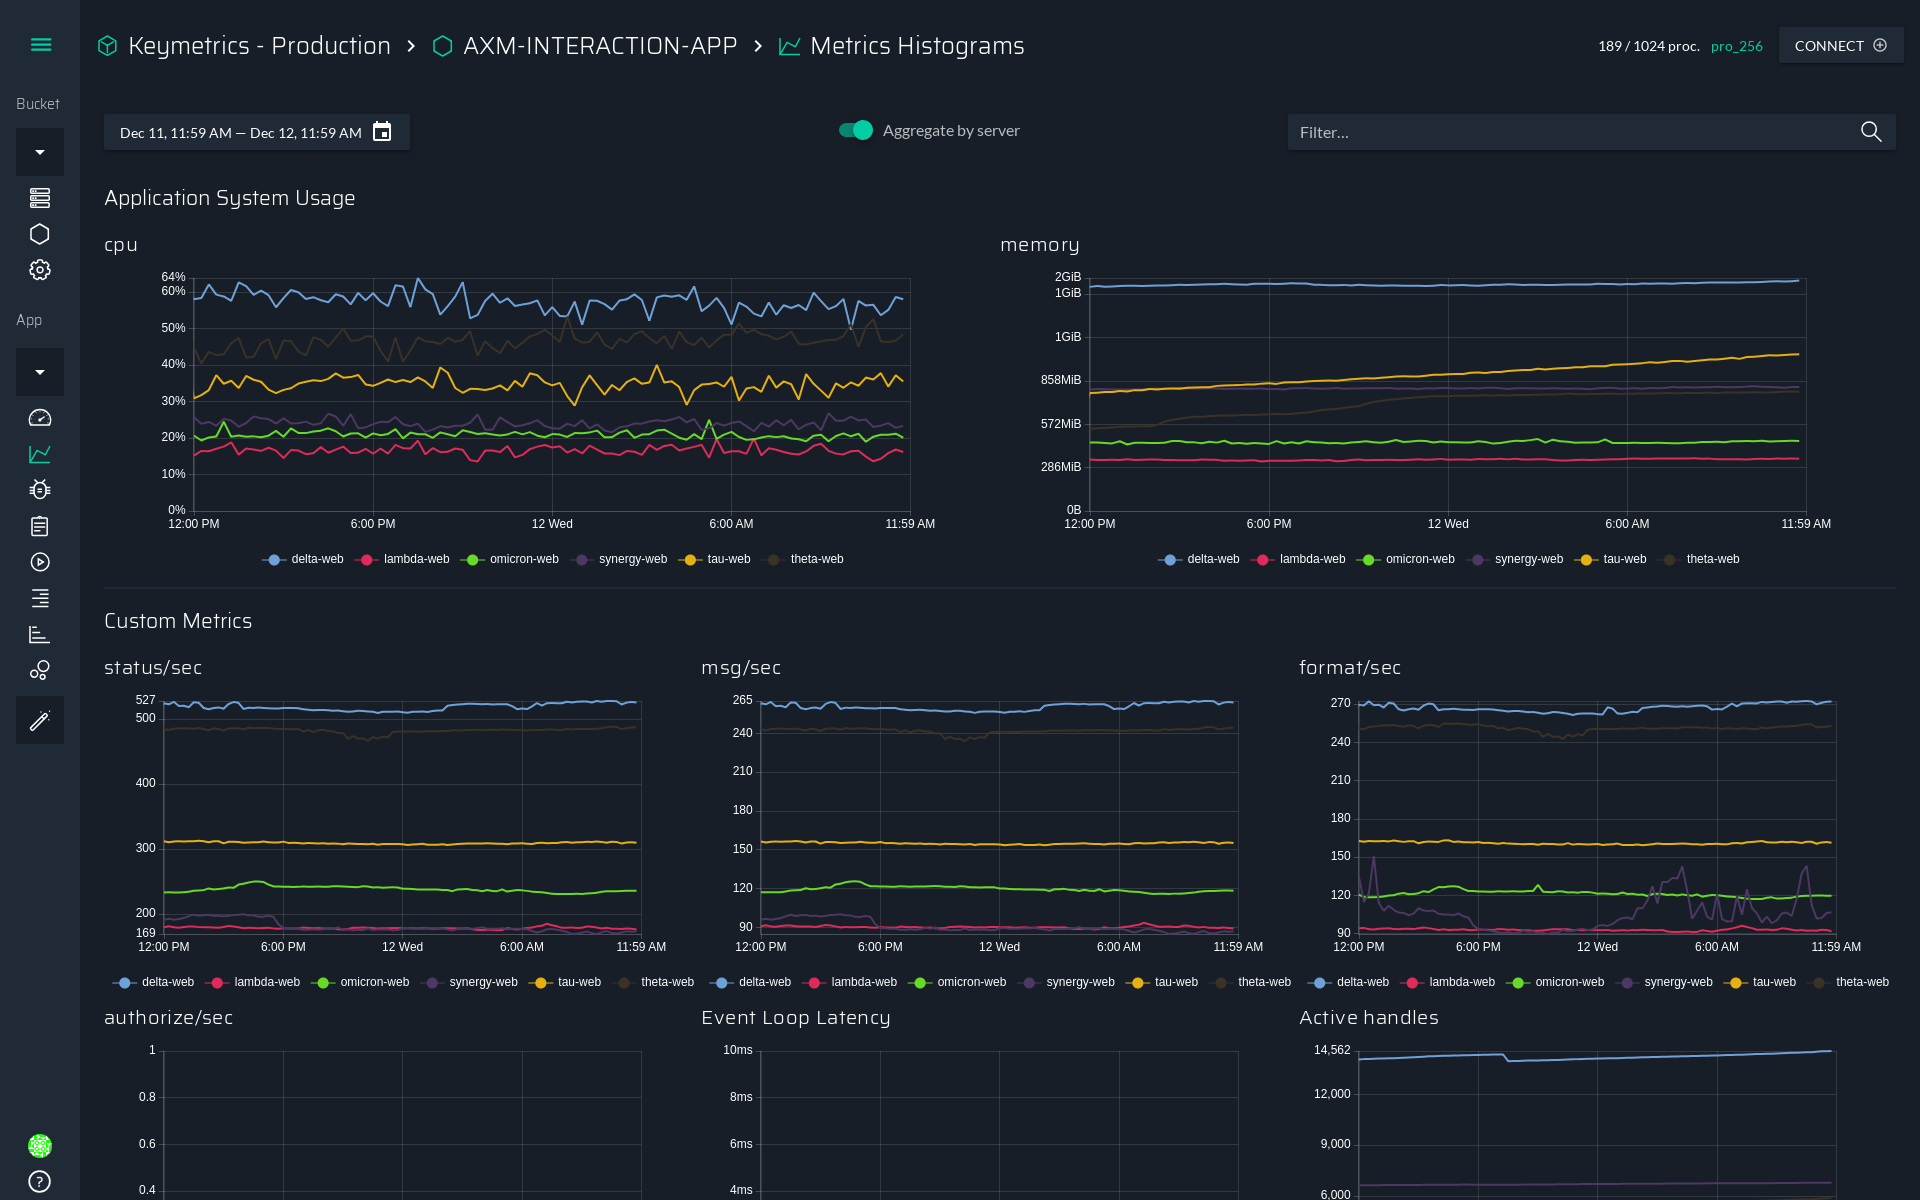
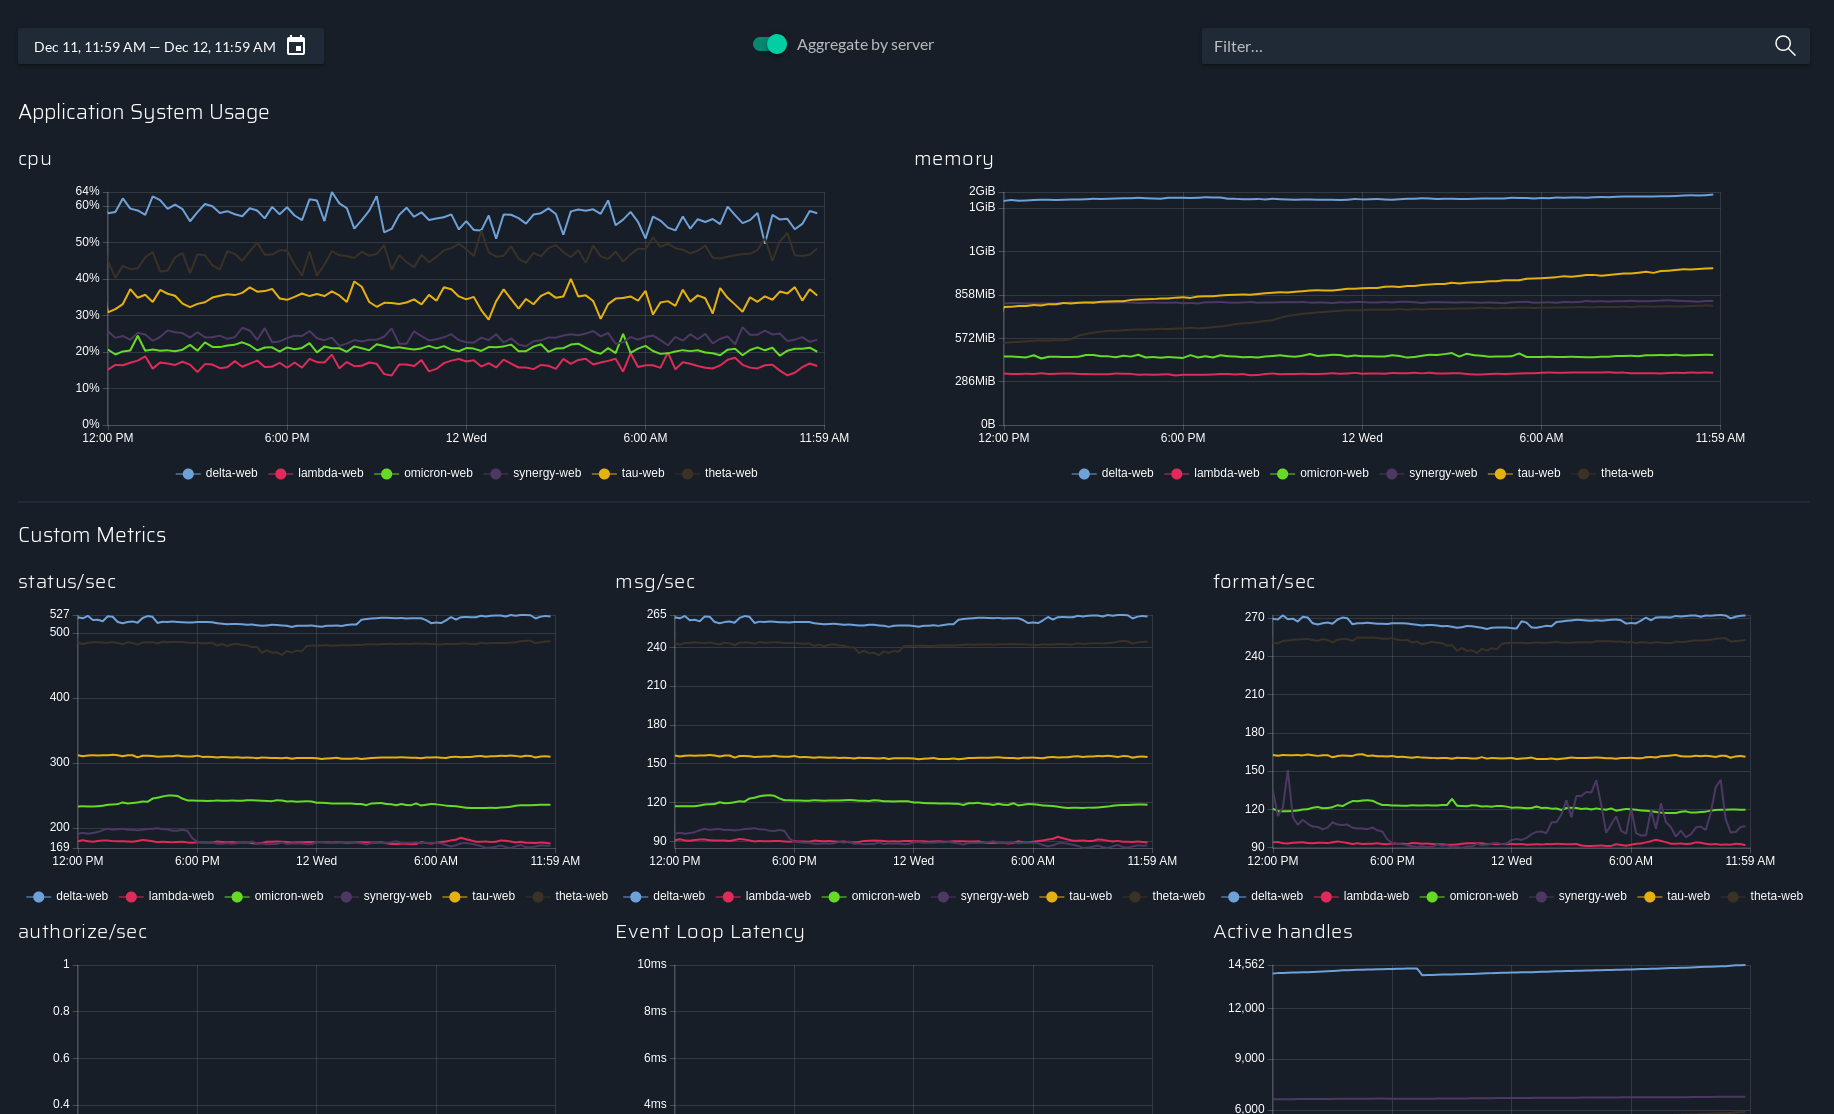
crop pics

diff --git a/README.md b/README.md
@@ -6,3 +6,8 @@
 sudo apt-get install optipng
 npm run opti
 ```
+
+## Guidelines to add a screenshot
+
+- Only screen the inner page without navigation
+- Optimize image size with `npm run opti`
